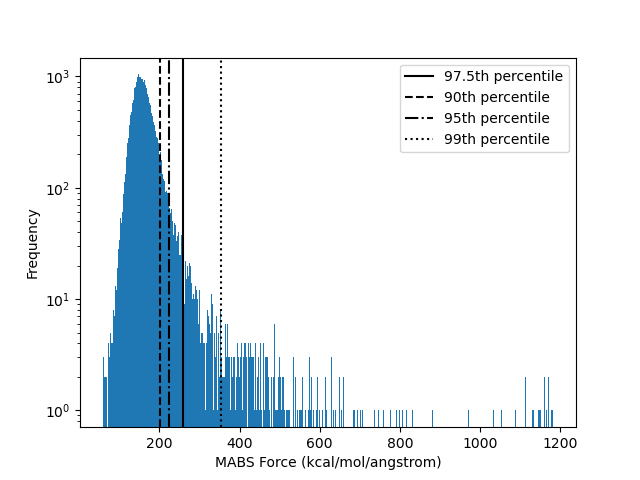
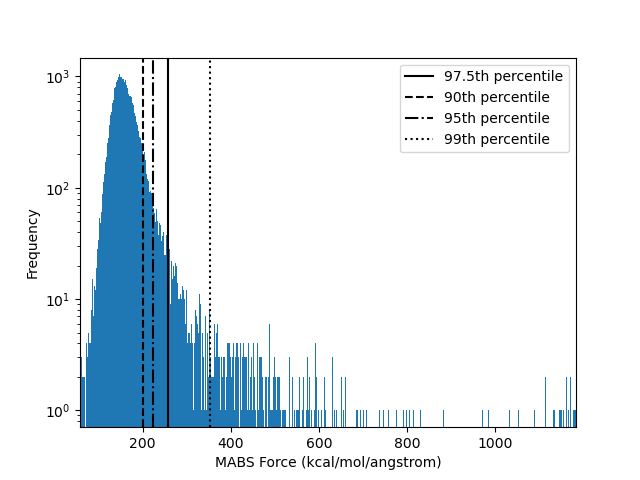
histograms use entire x axis

diff --git a/workflow/02-select-data/__main__.py b/workflow/02-select-data/__main__.py
@@ -17,10 +17,9 @@ Output files:
 
 import pickle
 import warnings
-from collections.abc import Sequence
+from collections.abc import Iterable, Sequence
 from pathlib import Path
 from typing import Annotated, Any, Literal, assert_never
-from collections.abc import Iterable
 
 import datasets
 import descent.targets.energy
@@ -322,6 +321,7 @@ def filter_forces(
         )
     ax.set_xlabel(f"{metric} Force (kcal/mol/angstrom)")
     ax.set_ylabel("Frequency")
+    ax.set_xlim(xmin=forces.min().item(), xmax=forces.max().item())
     ax.legend()
     fig.savefig(Path(__file__).with_suffix(".py.forces.png"))
 
